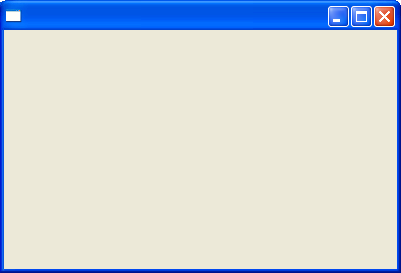
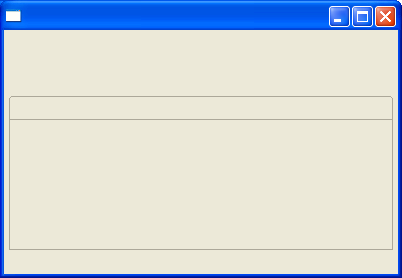
More polishing and corrections for RC3.

diff --git a/bundles/org.eclipse.ui.tutorials.rcp.part1/html/tutorial1.html b/bundles/org.eclipse.ui.tutorials.rcp.part1/html/tutorial1.html
@@ -90,8 +90,11 @@ Also, you need to tell Eclipse that the plug-in will depend on two other Eclipse
 <code>org.eclipse.core.runtime.compatibility</code> and
 <code>org.eclipse.ui</code>, so those need to be added to the
 Dependencies tab or in the XML.
+While you're editing it you can change the version number,
+provider name, and other options to your liking.
 When you're done your plugin.xml should look something like listing 1.
-The classes refered to here will be defined in the next section.
+The classes refered to here will be defined in the next section
+and the tags starting with percents (%) will be defined later in plugin.properties.
 </p>
 
 <p><b>Listing 1. plugin.xml
@@ -143,12 +146,14 @@ I recommend keeping your id's and your class names the same.
 For example, <code>org.eclipse.ui.tutorials.rcp.part1.RcpApplication</code>
 is both the fully qualified id for the application and the class name of the
 main program.
-For historical reasons, Eclipse prepends the plug-in's id to your
+For historical reasons, Eclipse prepends the plug-in's id to the id of your
 top level plug-in elements (like <code>extension</code>) so even though
 plugin.xml says <code>id="RcpApplication"</code> the fully qualified id
 for that extension is <code>org.eclipse.ui.tutorials.rcp.part1.RcpApplication</code>.
-Ditto for the perspective,
-<code>org.eclipse.ui.tutorials.rcp.part1.RcpPerspective</code>.
+Since the perspective's id is written on a sub-element
+(<code>perspective</code>) it has to be spelled out completely
+in the manifest
+(<code>org.eclipse.ui.tutorials.rcp.part1.RcpPerspective</code>).
 </p>
 
 <h2>The main program</h2>
@@ -283,7 +288,7 @@ perspectiveName = RcpTutorial1
 
 <h2>Taking it for a spin</h2>
 <p>To test and debug this plug-in, select Run &gt;
-Debug &gt; Debug..., select Run-time Workbench,
+Debug..., select Run-time Workbench,
 then click New to create a new configuration.
 In the Arguments tab, select
 <code>org.eclipse.ui.tutorials.rcp.part1.RcpApplication</code>
@@ -302,7 +307,10 @@ scroll down and place a checkmark next to your plug-in
 (<code>org.eclipse.ui.tutorials.rcp.part1</code>),
 and click Add Required Plug-ins.
 Then click on Debug and
-you should see a bare-bones Workbench start up (see figure 1).</p>
+you should see a bare-bones Workbench start up (see figure 1).
+Your window will probably be bigger than this; we'll see in
+part 2 of the tutorial how to control that.
+</p>
 
 <p><b>Figure 1. World's simplest RCP application.
 </b></p>
@@ -351,8 +359,6 @@ Here are the steps to get started:</p>
 <p>To complete the RcpTutorial1 directory, copy the startup.jar file from the Eclipse
 install directory into the top level, and copy all the org.eclipse plug-ins
 that are required into the plugins directory.
-Unfortunately, as of this writing there is no automatic way to do this
-so you need to do the copies by hand.
 </p>
 <p>
 Which plug-ins are required, you ask?
@@ -363,25 +369,34 @@ Simply open the launch configuration again to see the list.
 Copy all the plug-ins that are checked off there.
 </p>
 <p>
+<img src="images/note.gif" alt="Note: " width="62" height="13">
+Unfortunately, as of this writing there is no automatic way to do this
+so you need to do the copies by hand.
+This process is error prone and a never-ending source of
+frustration to RCP developers.
+See the troubleshooting section for some helpful advice.
+Hopefully a future version of Eclipse will provide
+better support for this.
+</p>
+<p>
 When you're
 done you should have a structure that looks like this:</p>
 <pre>
     RcpTutorial1
     |    startup.jar
     +--- plugins
+         +--- org.eclipse.core.expressions_3.0.0
          +--- org.eclipse.core.runtime.compatibility_3.0.0
          +--- org.eclipse.core.runtime_3.0.0
          +--- org.eclipse.help_3.0.0
          +--- org.eclipse.jface_3.0.0
-         +--- org.eclipse.osgi.services_3.0.0
-         +--- org.eclipse.osgi.util_3.0.0
          +--- org.eclipse.osgi_3.0.0
          +--- org.eclipse.swt.win32_3.0.0
          +--- org.eclipse.swt_3.0.0
+         +--- org.eclipse.ui.tutorials.rcp.part1_0.0.0
          +--- org.eclipse.ui.workbench_3.0.0
          +--- org.eclipse.ui_3.0.0
          +--- org.eclipse.update.configurator_3.0.0
-         +--- org.eclipse.ui.tutorials.rcp.part1
 </pre>
 <p>That's all you need to run an RCP application, but it would be difficult for
 anyone to use it without some kind of launching program. Eclipse uses
@@ -399,7 +414,7 @@ script version would be similar.
 </pre>
 <p>The start command should be all on one line. As before, the -application
 option refers back to the id specified on the
-org.eclipse.core.runtime.applications extension point.</p>
+<code>org.eclipse.core.runtime.applications extension point.</code></p>
 <p>You can get as fancy as you want in this script file. Here's a variant that I
 like to use when debugging because it will display any error messages from the
 Eclipse loader in a separate window:</p>
@@ -420,12 +435,16 @@ and enter this as the location of the item (on one line):</p>
     %windir%\system32\javaw.exe -cp startup.jar org.eclipse.core.launcher.Main
         -application org.eclipse.ui.tutorials.rcp.part1.RcpApplication
 </pre>
-<p>Enter a descriptive name on the next page and then press Finish. Then try
+<p>
+Enter a descriptive name on the next page and then press Finish. Then try
 double-clicking on your new shortcut to try it out. You may want to edit the
 shortcut (right click on it and select Properties) to change the default working
-directory.</p>
+directory.
+All these files can be found in the
+<a href="http://dev.eclipse.org/viewcvs/index.cgi/org.eclipse.ui.tutorials.rcp.part1">example project</a>.
+</p>
 <p>
-<img src="images/tip.gif" alt="Tip: " width="62" height="13">
+<img src="images/note.gif" alt="Note: " width="62" height="13">
 For fully branding a program with a splash screen, custom icons, and so forth
 you'll need to set up some configuration files and use
 the eclipse.exe launcher.
@@ -517,8 +536,9 @@ Adjust the compliance levels as follows:<br>
 Astute readers will notice that this example uses the compatibility layer
 (<code>org.eclipse.core.runtime.compatibility</code>)
 and may wonder exactly what that means.
-Eclipse 3.0 introduced a new OSGi based run-time system,
-a new plug-in manifest file named MANIFEST.MF,
+Eclipse 3.0 introduced a new OSGi based run-time system that
+uses bundles to implement plug-ins,
+a new bundle manifest file named MANIFEST.MF,
 and many API changes that broke compatibility with 2.1 plug-ins.
 The compatibility layer preserves the API and converts plugin.xml on the fly
 so it's possible to have a plug-in that works without modification in both
@@ -533,10 +553,16 @@ Also most plug-in documentation and articles were written before
 the new run-time was in place.
 The compatibility layer is completely adequate for this simple example, but
 after you are comfortable with writing plug-ins and
-RCP applications, you can look in the Eclipse 3.0 Runtime Adoption Guide
-(in the references section)
+RCP applications, you might want to look in the
+Eclipse 3.0 Runtime Adoption Guide (in the references section)
 to learn more about the new run-time
 and how to run without the compatibility layer.
+</p>
+<p>
+<img src="images/note.gif" alt="Note: " width="62" height="13">
+The new OSGi/bundle API
+is considered experimental in the first version of 3.0
+and might change in future versions.
 </p>
 
 <h2>Conclusion</h2>

diff --git a/bundles/org.eclipse.ui.tutorials.rcp.part2/html/tutorial2.html b/bundles/org.eclipse.ui.tutorials.rcp.part2/html/tutorial2.html
@@ -74,7 +74,8 @@ for the application.
 <p>
 In the next section we'll take a look at the other advisor methods
 to get a quick overview of what is possible with them.
-If you want to cut to the chase and look at the code for this part you can view the
+If you want to cut to the chase and look at or download
+the code for this part you can view the
 <a href="http://dev.eclipse.org/viewcvs/index.cgi/org.eclipse.ui.tutorials.rcp.part2">Eclipse project here</a>.
 </p>
 <p>
@@ -134,13 +135,13 @@ as shown in listing 1.
 <p><b>Listing 1. preWindowOpen example.
 </b></p>
 <pre>
-	public void preWindowOpen(IWorkbenchWindowConfigurer configurer) {
-		super.preWindowOpen(configurer);
+    public void preWindowOpen(IWorkbenchWindowConfigurer configurer) {
+        super.preWindowOpen(configurer);
         configurer.setInitialSize(new Point(400, 300));
         configurer.setShowCoolBar(false);
         configurer.setShowStatusLine(false);
-		configurer.setTitle("Hello, RCP");
-	}
+        configurer.setTitle("Hello, RCP");
+    }
 </pre>
 
 <p>
@@ -280,15 +281,20 @@ Workbench window lifecycle hooks provided by <code>org.eclipse.ui.application.Wo
 		<code>IActionBarConfigurer</code>, flags
 
 	<tr><td>postWindowRestore
-		<td>Optionally called after a window has been restored
-		from saved state (if any) but before it is opened.
-		Can't really think of a use for this one.
-		It's called but not used in 3.0M8.
+		<td>Optionally called for cases when a window has been restored
+		from saved state but before it is opened.
 		<td><code>IWorkbenchWindowConfigurer</code>
 		
 	<tr><td>postWindowCreate
-		<td>Optionally called after a window has been restored
-		from saved state (if any) but before it is opened.
+		<td>Called after a window has been restored
+		from saved state or created from scratch
+		but before it is opened.
+		<td><code>IWorkbenchWindowConfigurer</code>
+		
+	<tr><td>openIntro
+		<td>Called immediately before a window is opened
+		in order to create the Intro component (if any).
+		Could be used for other things like a login screen.
 		<td><code>IWorkbenchWindowConfigurer</code>
 		
 	<tr><td>postWindowOpen
@@ -426,7 +432,7 @@ check them for consistent grammar and word usage.
 </p>
 <p>
 There's nothing magic about messages in Eclipse - you just
-use the good ole Java resource bundle mechanism that you may
+use the plain old Java resource bundle mechanism that you may
 already be familiar with.
 The Eclipse IDE provides a nice Externalization wizard to make
 this less of a chore.
@@ -452,7 +458,6 @@ Follow the directions there to have the wizard convert your code to
 use a resource bundle reference.
 Alternatively you could right click on a single source file and select
 <b>Source > Externalize Strings...</b>.
-highlighted.
 When you're done your source code will look something like this:
 </p>
 <pre>
@@ -465,10 +470,12 @@ is a tag or keyword of some sort and should not be localized.
 </p>
 <p>
 Also you will have a standard format .properties file containing
-the keys and values for all your messages. For example,
+the keys and values for all your messages.
+In the example code you will find a file called RcpTutorial.properties
+that contains:
+
 </p>
 <pre>
-RcpTest.properties:
 Hello_RCP=Hello, RCP
 </pre>
 <p>
